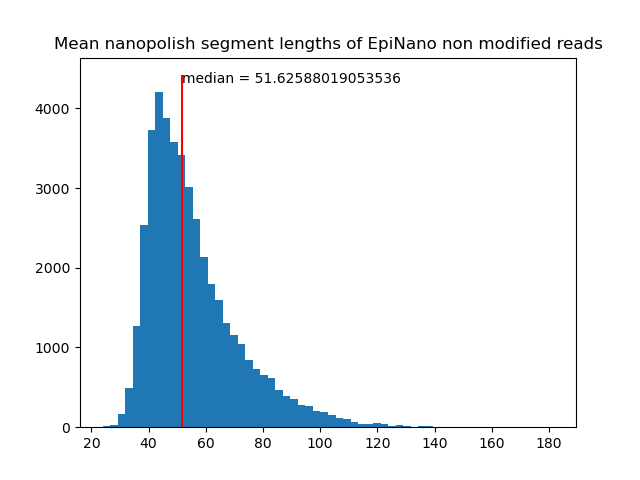
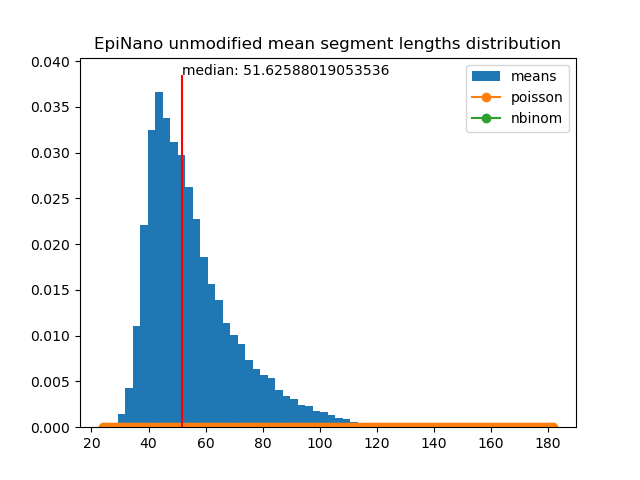
change to distfit discrete

diff --git a/testing/plot_segment_length.py b/testing/plot_segment_length.py
@@ -110,7 +110,7 @@ plt.close()
 
 # ============================ DISTFIT ============================
 
-dist = distfit()
+dist = distfit(method='discrete')
 
 dist.fit_transform(ms)
 dist.plot()
